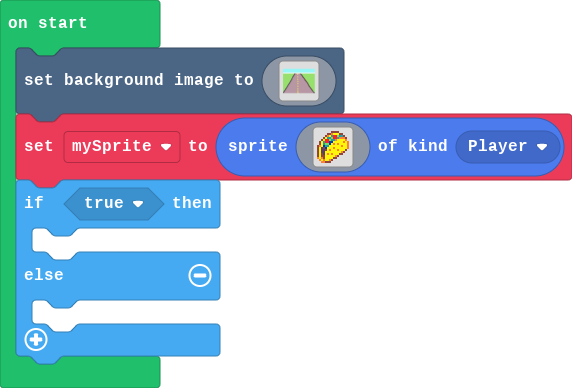
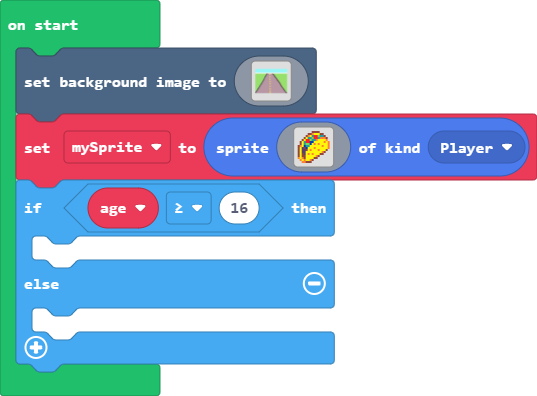
Update main.blocks, main.ts

Changed region(s): [[0.0, 0.0, 1.0, 1.0], [0.0596, 0.1237, 0.1192, 0.1546]]

diff --git a/main.ts b/main.ts
@@ -1,3 +1,4 @@
+let age = 0
 scene.setBackgroundImage(img`
     9999999999999999999999999999999999999999999999999999999999999999999999999999999999999999999999999999999999999999999999999999999999999999999999999999999999999999
     9999999999999999999999999999999999999999999999999999999999999999999999999999999999999999999999999999999999999999999999999999999999999999999999999999999999999999
@@ -138,7 +139,7 @@ let mySprite = sprites.create(img`
     . 4 5 4 5 5 4 e . . . . . . . . 
     . . 4 4 e e e . . . . . . . . . 
     `, SpriteKind.Player)
-if (true) {
+if (age >= 16) {
 	
 } else {
 	
